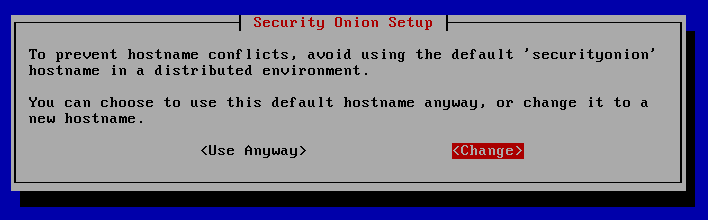
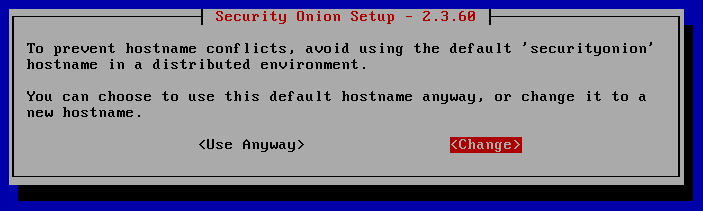
update configuration.rst and setup images

Changed region(s): [[0.0, 0.0284, 0.9858, 0.9668], [0.6273, 0.6256, 0.7468, 0.7393], [0.2688, 0.654, 0.4182, 0.7109]]

diff --git a/configuration.rst b/configuration.rst
@@ -131,6 +131,3 @@ The following screenshots are from an ``IMPORT`` installation. Your screens may 
 
 .. image:: images/setup-26.png
   :target: _images/setup-26.png
-
-.. image:: images/setup-27.png
-  :target: _images/setup-27.png
